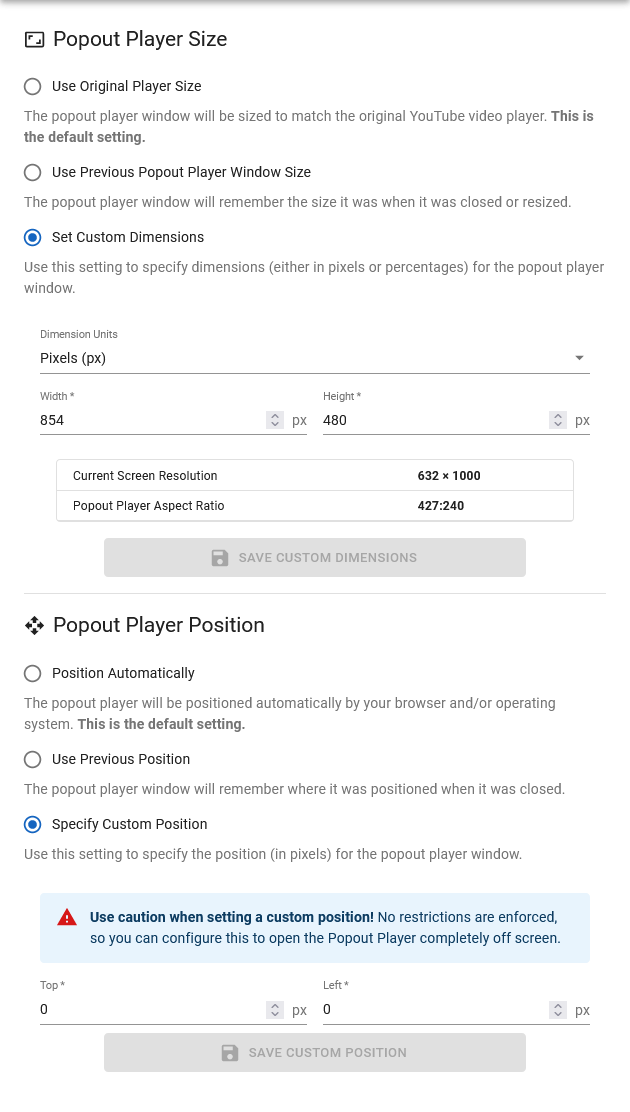
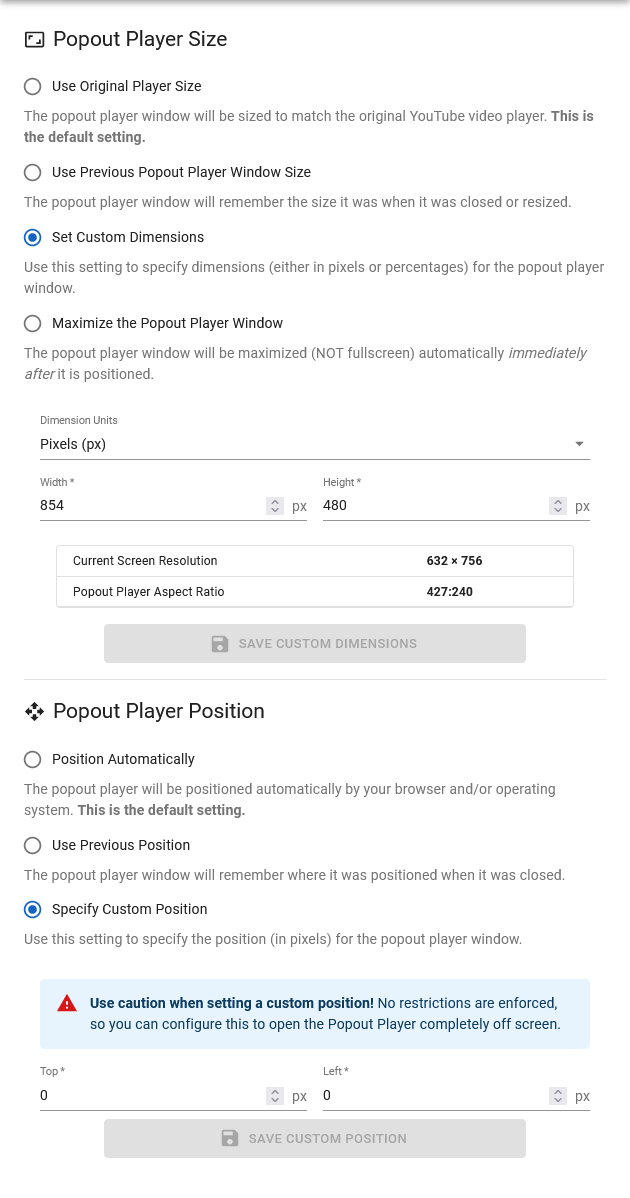
update Options documentation page and screenshots

diff --git a/docs/pages/options.html b/docs/pages/options.html
@@ -128,6 +128,12 @@ order: 5
                         </tbody>
                     </table>
                 </dd>
+
+                <dt>Maximize the Popout Player Window <span class="badge red white-text">New!</span></dt>
+                <dd>
+                    <p>The popout player window will be maximized (NOT fullscreen) automatically <em>immediately after</em> it is positioned.</p>
+                    <p>When you select this setting, the popout player window will be positioned according to the "Popout Player Position" option, then it will be maximized. This should allow you to have the popout player window use the entire screen of a secondary display/monitor.</p>
+                </dd>
             </dl>
         </div>
     </div>
@@ -213,6 +219,7 @@ order: 5
                 <dt>Open in Background Window/Tab <span class="badge red white-text">New!</span></dt>
                 <dd>
                     <p>Enabling this will cause the popout player to be opened in a background window/tab. <strong>The default for this setting is disabled.</strong></p>
+                    <p><i class="small left material-icons red-text">info</i> <strong>Note:</strong> This setting is not available when using the "Maximize the Popout Player Window" mode.</p>
                 </dd>
 
                 <dt>Use "No Cookie" Version of YouTube <span class="badge red white-text">New!</span></dt>
